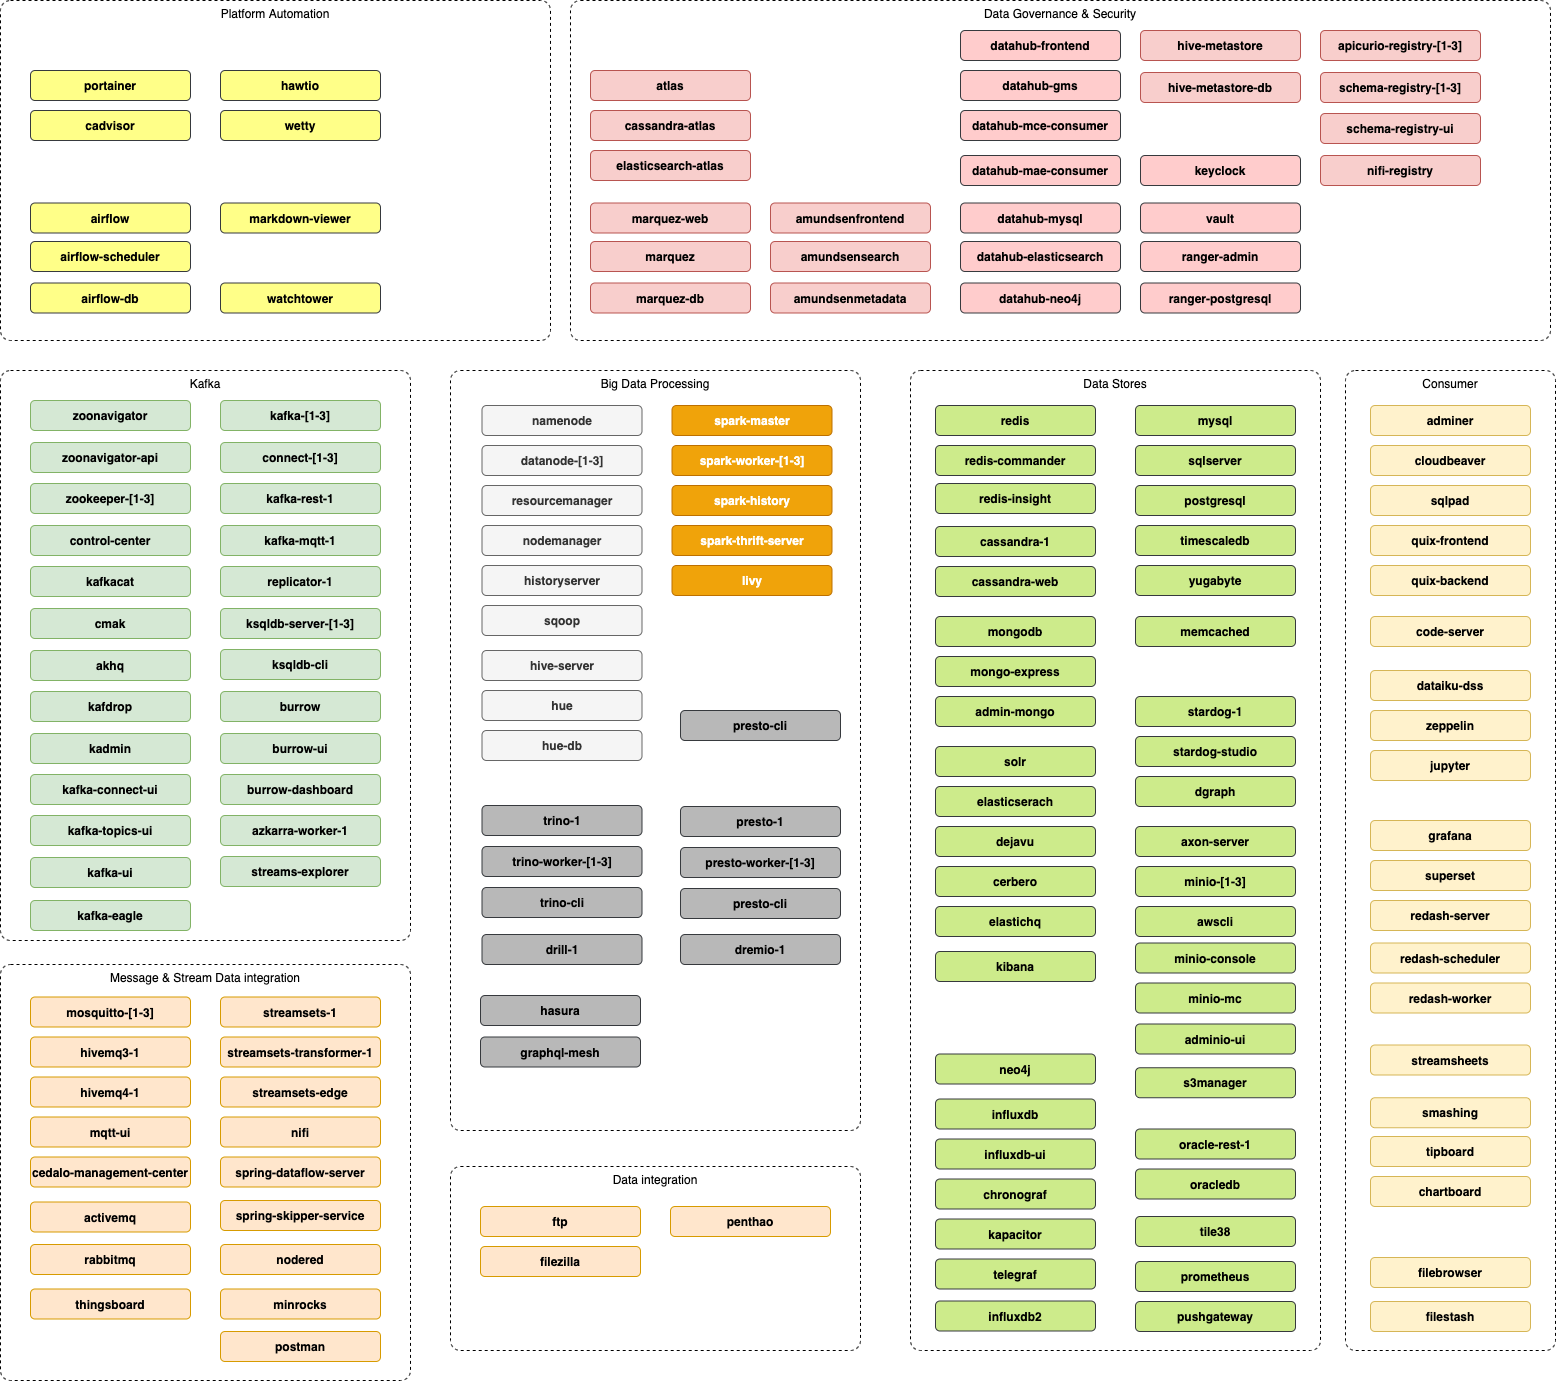
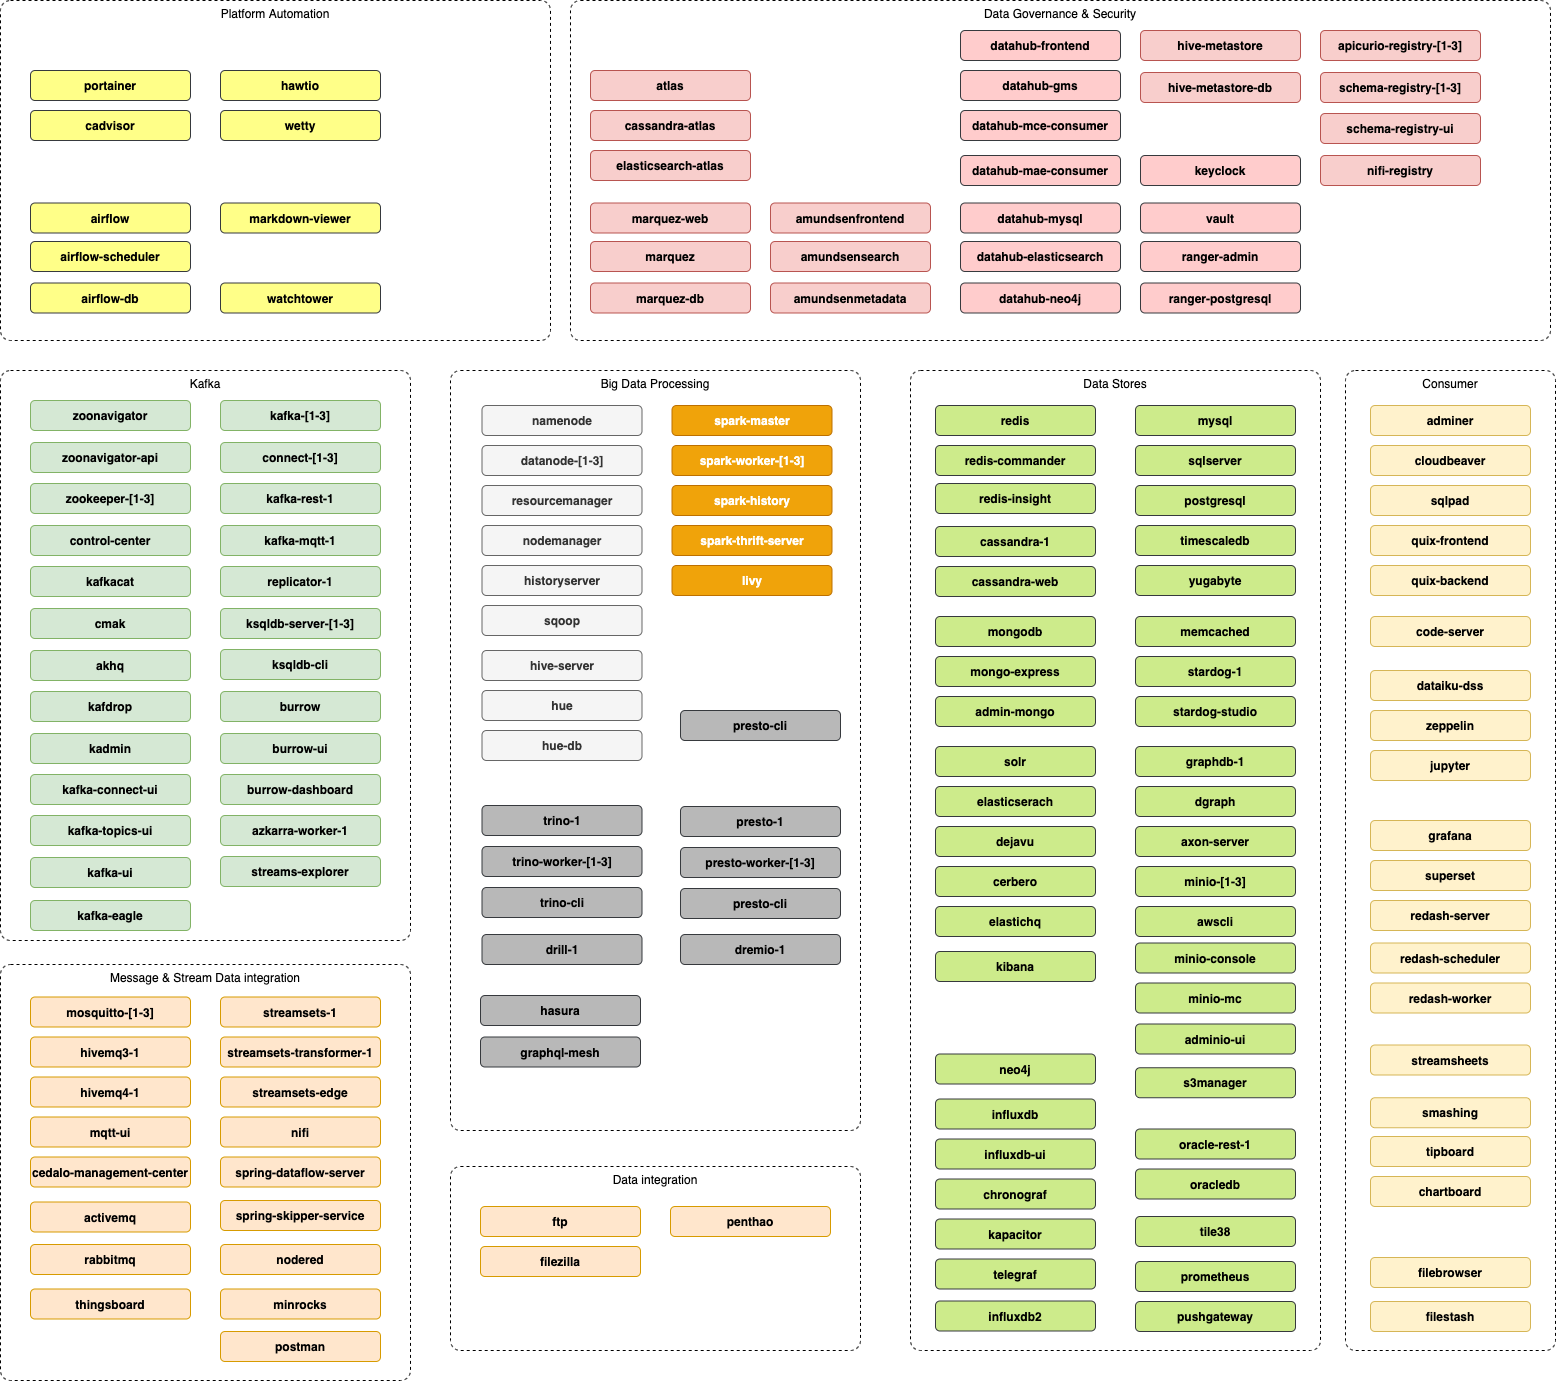
support for GraphDB Free edition added: #333

Changed region(s): [[0.7095, 0.4671, 0.8329, 0.5916]]

diff --git a/documentation/configuration.md b/documentation/configuration.md
@@ -296,6 +296,10 @@ For each service there might be some other settings, such as controlling the num
 | `STARDOG_enable`                                 	| `false` 	| 1.7.0 	| Generate Stardog service                                                                                                                                                              	|             	|                                	|
 | `STARDOG_volume_map_data`                                 	| `false` 	| 1.7.0 	| Volume map data folder into the Stardog service                                                                                                                                                              	|             	|                                	|
 | `STARDOG_STUDIO_enable`                                 	| `false` 	| 1.7.0 	| Generate Stardog Studio UI service                                                                                                                                                              	|             	|                                	|
+| **_GraphDB_** &nbsp;&nbsp;&nbsp;&nbsp;![x86-64](./images/x86-64.png)                                       	|         	|       	|                                                                                                                                                                                     	|      NO     	|                                	|
+| `GRAPHDB_enable`                                 	| `false` 	| 1.11.0 	| Generate GraphDB service                                                                                                                                                              	|             	|                                	|
+| `GRAPHDB_volume_map_data`                                 	| `false` 	| 1.11.0 	| Volume map data folder into the GraphDB service                                                                                                                                                              	|             	|                                	|
+| `GRAPHDB_heap_size`                                 	| `2G` 	| 1.11.0 	| GraphDB heap size                                                                                                                                                             	|             	|                                	|
 | **_InfluxData InfluxDB_** &nbsp;&nbsp;&nbsp;&nbsp;![x86-64](./images/x86-64.png)  ![arm](./images/arm.png)                               	|         	|       	|                                                                                                                                                                                     	|     
 | `INFLUXDB_enable`                              	| `false` 	| 1.1.0 	| Generate InfluxDB service                                                                                                                                                           	|             	|                                	|
 | `INFLUXDB_volume_map_data`                     	| `false` 	| 1.1.0 	| Volume map data folder into the InfluxDB service                                                                                                                                    	|             	|                                	|

diff --git a/documentation/port-mapping.md b/documentation/port-mapping.md
@@ -152,6 +152,7 @@ Container Port(s) | Internal Port(s)           | Service (alternatives) |
 15433 | 5433| yb-tserver-1 |
 15672 | 15672 | rabbitmq (ui) |
 16379 | 6379| yb-tserver-1 |
+17200 | 7200 | graphdb-1 |
 17474 | 7474 | amundsen-neo4j |
 17687 | 7687 | amundsen-neo4j |
 17475 | 7474 | datahub-neo4j |
